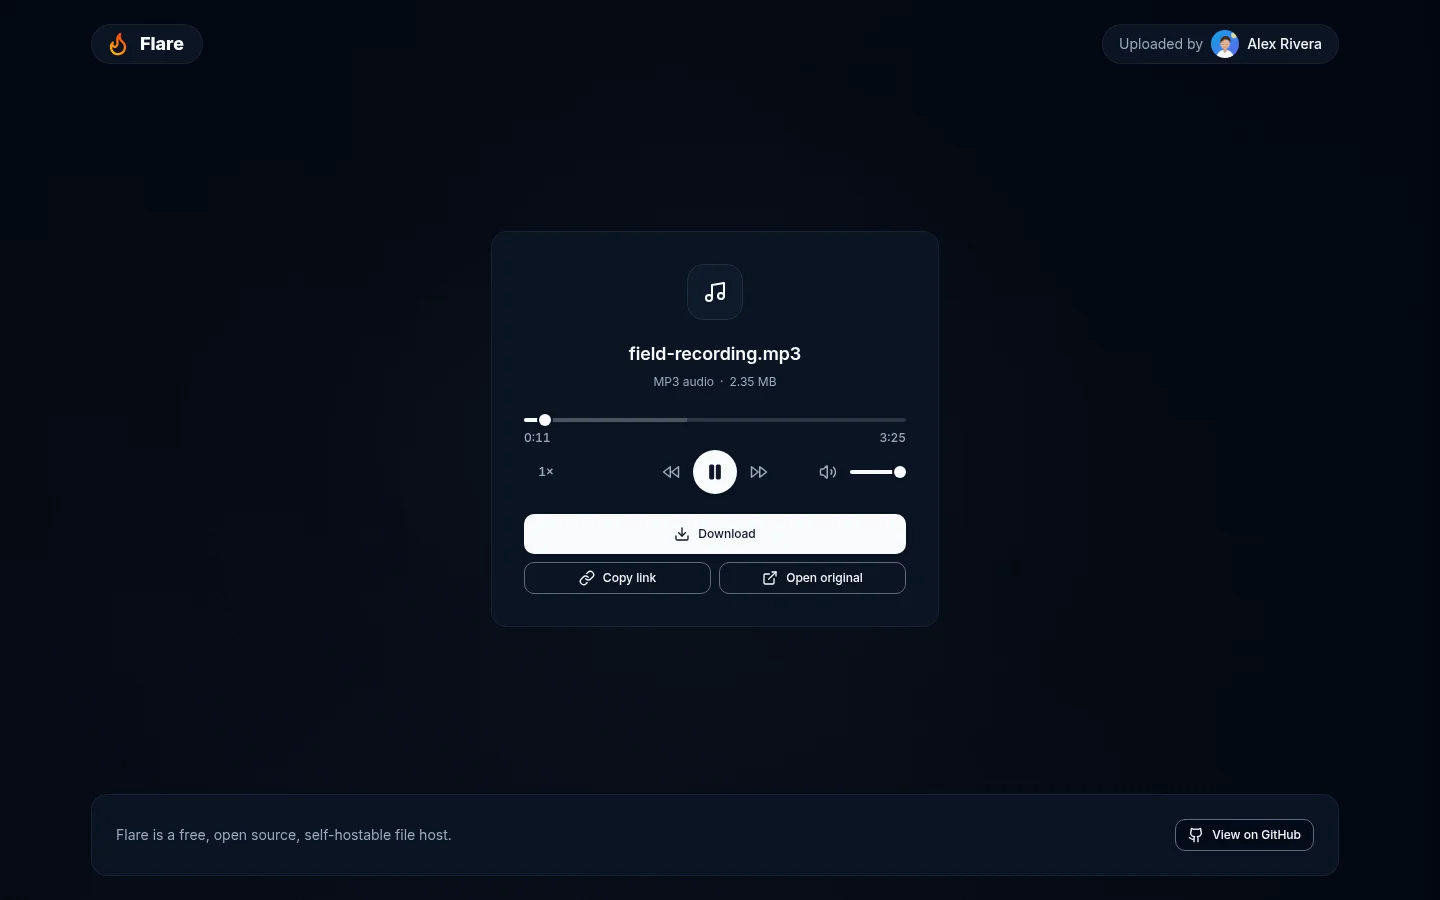
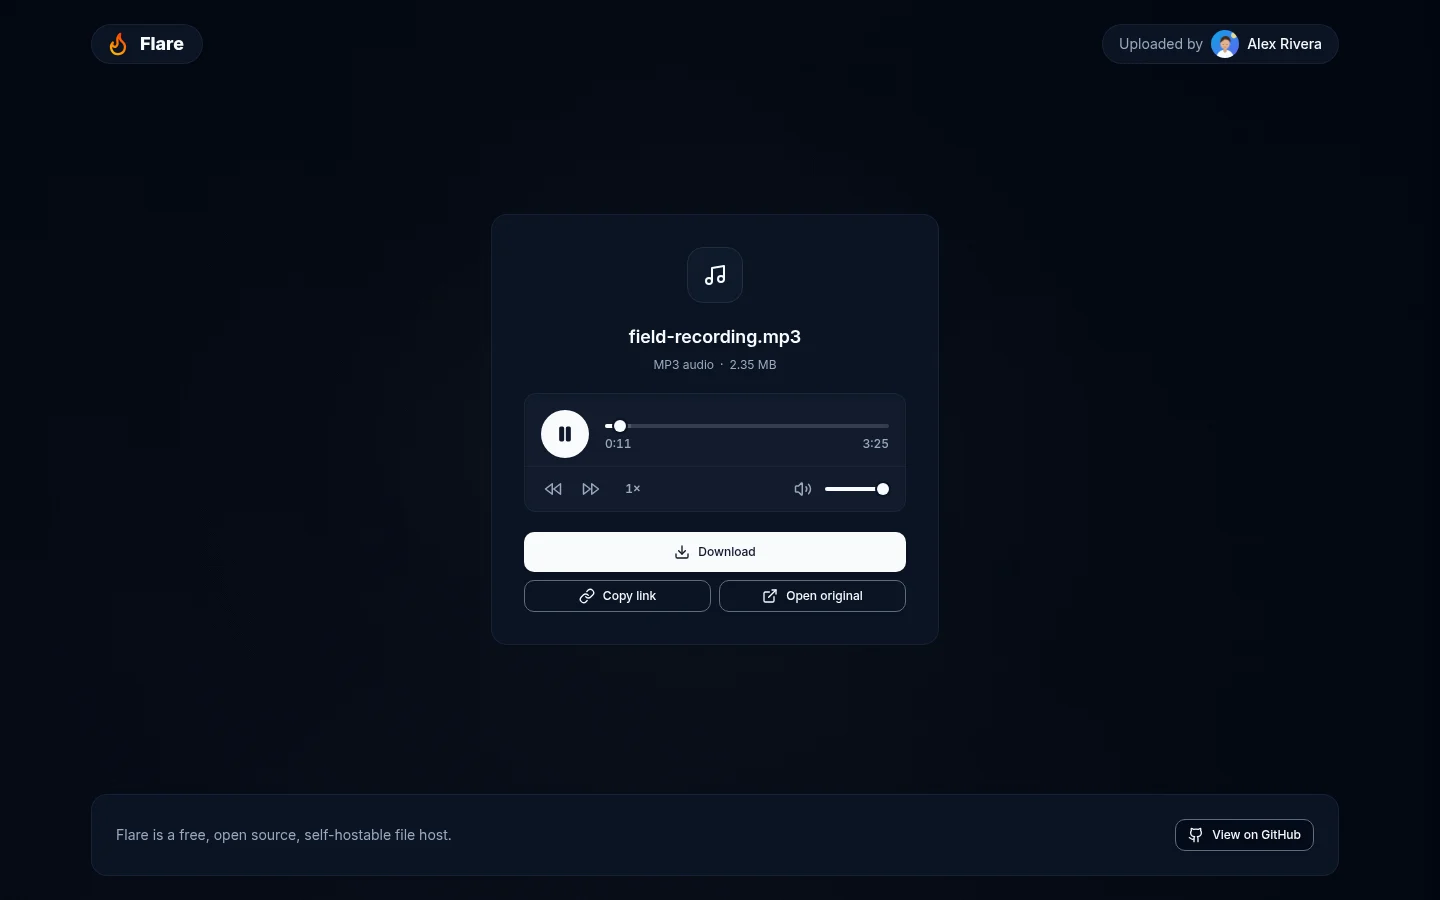
feat(player): set the audio player in its own inset panel (#299)
The audio controls sat loose on the share card in two rows. They now
live in one bordered panel: play beside the timeline, skip, speed and
volume along its foot. The same panel shows in archive previews.

Changed region(s): [[0.3438, 0.4356, 0.625, 0.6844], [0.4375, 0.3422, 0.5625, 0.4356], [0.4688, 0.3111, 0.5, 0.3422]]

diff --git a/components/media/audio-player.tsx b/components/media/audio-player.tsx
@@ -29,10 +29,10 @@ interface AudioPlayerProps {
 }
 
 /**
- * Flare's audio player, in the theme's colours: a timeline with the position
- * and the length under it, then speed, skip, play and volume. Every row has a
- * fixed height, so the player is the same size before and after the file
- * loads.
+ * Flare's audio player, in the theme's colours: one inset deck with the play
+ * button beside the timeline, and skip, speed and volume along its foot.
+ * Every row has a fixed height, so the player is the same size before and
+ * after the file loads.
  */
 export function AudioPlayer({
   src,
@@ -51,11 +51,12 @@ export function AudioPlayer({
       role="group"
       aria-label={`${name} audio player`}
       data-flare-player="audio"
+      data-playing={state.playing ? '' : undefined}
       // Focusable like the video player, so a click anywhere on it, or a
       // drag of a slider, leaves the keys with the player.
       tabIndex={idle ? undefined : 0}
       className={cn(
-        'w-full rounded-md outline-none [container-type:inline-size] focus-visible:outline focus-visible:outline-2 focus-visible:outline-offset-4 focus-visible:outline-ring',
+        'w-full rounded-xl border border-border/60 bg-muted/40 text-left shadow-inner outline-none [container-type:inline-size] focus-visible:outline focus-visible:outline-2 focus-visible:outline-offset-2 focus-visible:outline-ring',
         className
       )}
       onKeyDown={(event) => {
@@ -70,53 +71,53 @@ export function AudioPlayer({
     >
       {/* Without controls of its own the element takes no space. */}
       <audio ref={audio} src={src} preload="metadata" onError={onError} />
-      <Timeline audio={audio} media={media} disabled={idle} />
-      <div className="mt-1 grid grid-cols-[1fr_auto_1fr] items-center gap-2">
-        <div className="flex justify-start">
-          <SpeedButton media={media} tone="surface" disabled={idle} />
+      <div className="flex items-center gap-3 px-3 pb-2 pt-3 sm:gap-4 sm:px-4 sm:pt-4">
+        <button
+          type="button"
+          onClick={media.toggle}
+          disabled={idle}
+          aria-label={playLabel}
+          title={`${playLabel} (K)`}
+          className="inline-flex h-12 w-12 shrink-0 items-center justify-center rounded-full bg-primary text-primary-foreground shadow transition-[background-color,transform] hover:bg-primary/90 active:scale-95 focus-visible:outline-none focus-visible:ring-2 focus-visible:ring-ring focus-visible:ring-offset-2 focus-visible:ring-offset-background disabled:opacity-50"
+        >
+          {state.waiting ? (
+            <Loader2 className="h-5 w-5 animate-spin" aria-hidden="true" />
+          ) : state.playing ? (
+            <Pause className="h-5 w-5 fill-current" aria-hidden="true" />
+          ) : (
+            <Play
+              className="h-5 w-5 translate-x-px fill-current"
+              aria-hidden="true"
+            />
+          )}
+        </button>
+        <div className="min-w-0 flex-1">
+          <Timeline audio={audio} media={media} disabled={idle} />
         </div>
-        <div className="flex items-center gap-1">
-          <button
-            type="button"
-            onClick={() => media.seekBy(-SEEK_JUMP)}
-            disabled={idle}
-            aria-label={`Back ${SEEK_JUMP} seconds`}
-            title={`Back ${SEEK_JUMP} seconds (J)`}
-            className={mediaButtonClassName('surface')}
-          >
-            <Rewind className="h-[18px] w-[18px]" aria-hidden="true" />
-          </button>
-          <button
-            type="button"
-            onClick={media.toggle}
-            disabled={idle}
-            aria-label={playLabel}
-            title={`${playLabel} (K)`}
-            className="inline-flex h-11 w-11 shrink-0 items-center justify-center rounded-full bg-primary text-primary-foreground shadow transition-colors hover:bg-primary/90 focus-visible:outline-none focus-visible:ring-2 focus-visible:ring-ring focus-visible:ring-offset-2 focus-visible:ring-offset-background disabled:opacity-50"
-          >
-            {state.waiting ? (
-              <Loader2 className="h-5 w-5 animate-spin" aria-hidden="true" />
-            ) : state.playing ? (
-              <Pause className="h-5 w-5 fill-current" aria-hidden="true" />
-            ) : (
-              <Play
-                className="h-5 w-5 translate-x-px fill-current"
-                aria-hidden="true"
-              />
-            )}
-          </button>
-          <button
-            type="button"
-            onClick={() => media.seekBy(SEEK_JUMP)}
-            disabled={idle}
-            aria-label={`Forward ${SEEK_JUMP} seconds`}
-            title={`Forward ${SEEK_JUMP} seconds (L)`}
-            className={mediaButtonClassName('surface')}
-          >
-            <FastForward className="h-[18px] w-[18px]" aria-hidden="true" />
-          </button>
-        </div>
-        <div className="flex min-w-0 items-center justify-end">
+      </div>
+      <div className="flex items-center gap-0.5 border-t border-border/60 px-1.5 py-1 sm:px-2.5">
+        <button
+          type="button"
+          onClick={() => media.seekBy(-SEEK_JUMP)}
+          disabled={idle}
+          aria-label={`Back ${SEEK_JUMP} seconds`}
+          title={`Back ${SEEK_JUMP} seconds (J)`}
+          className={mediaButtonClassName('surface')}
+        >
+          <Rewind className="h-[18px] w-[18px]" aria-hidden="true" />
+        </button>
+        <button
+          type="button"
+          onClick={() => media.seekBy(SEEK_JUMP)}
+          disabled={idle}
+          aria-label={`Forward ${SEEK_JUMP} seconds`}
+          title={`Forward ${SEEK_JUMP} seconds (L)`}
+          className={mediaButtonClassName('surface')}
+        >
+          <FastForward className="h-[18px] w-[18px]" aria-hidden="true" />
+        </button>
+        <SpeedButton media={media} tone="surface" disabled={idle} />
+        <div className="ml-auto flex min-w-0 items-center">
           <MuteButton media={media} tone="surface" disabled={idle} />
           {/* A phone sets the volume with its own buttons. */}
           <MediaSlider
@@ -128,7 +129,7 @@ export function AudioPlayer({
             valueText={`${Math.round((state.muted ? 0 : state.volume) * 100)}%`}
             onChange={media.setVolume}
             disabled={idle}
-            className="ml-1 hidden w-14 shrink-0 [@container(min-width:21rem)]:[@media(pointer:fine)]:flex"
+            className="ml-1 mr-1.5 hidden w-16 shrink-0 [@container(min-width:20rem)]:[@media(pointer:fine)]:flex"
           />
         </div>
       </div>

diff --git a/docs/site/guide/sharing.md b/docs/site/guide/sharing.md
@@ -119,7 +119,9 @@ Video and audio play in Flare's own player instead of the browser's built-in one
 - **Picture-in-picture**, in browsers that offer it to pages, and **Full screen**, which a double-click on the picture also toggles. Full screen keeps Flare's controls; on an iPhone, Safari opens its own full-screen player instead.
 - At the end, the play button becomes **Replay**.
 
-**Audio.** The player shows a timeline with the position and the length under it, then the speed button, **Back 10 seconds**, play, **Forward 10 seconds**, **Mute**, and the volume slider. It is on the page before the file loads and doesn't change size when it does.
+**Audio.** The player is one inset panel under the file's name. The play button sits beside the timeline, with the position and the length under the timeline. Along the bottom of the panel are **Back 10 seconds**, **Forward 10 seconds**, the speed button, **Mute**, and the volume slider. Phones and narrow panels show only **Mute**. The player is on the page before the file loads and doesn't change size when it does. The same panel plays audio inside an [archive preview](./archives).
+
+Earlier builds placed the audio controls directly on the card in two loose rows, with play in the middle of the second row.
 
 Keyboard shortcuts work while the player or one of its controls has focus. Click a player, or tab to it, to give it focus:
 
@@ -141,7 +143,7 @@ Earlier builds showed each browser's built-in controls, which differ between Chr
 
 <Screenshot src="/screenshots/sharing/player-video.webp" alt="Flare's video player paused on a share page: a play button in the middle, and under it the timeline with a time hint, play, mute, volume, the position, speed, picture-in-picture and full screen" caption="The video player's controls sit over the picture and hide while it plays." />
 
-<Screenshot src="/screenshots/sharing/player-audio.webp" alt="Flare's audio player on a share page: a timeline with 0:11 and 3:25 under it, then speed, back 10 seconds, pause, forward 10 seconds, mute and volume" caption="The audio player takes the instance's colors and keeps its size while the file loads." />
+<Screenshot src="/screenshots/sharing/player-audio.webp" alt="Flare's audio player on a share page: an inset panel under the file name with a pause button beside the timeline, 0:11 and 3:25 under it, and back 10 seconds, forward 10 seconds, speed, mute and volume along its bottom" caption="The audio player is one panel in the card, takes the instance's colors, and keeps its size while the file loads." />
 
 <Screenshot src="/screenshots/workspace/share-code.png" alt="Public code file with syntax highlighting and file actions" caption="Text and code are displayed as read-only content on the share page." />
 
